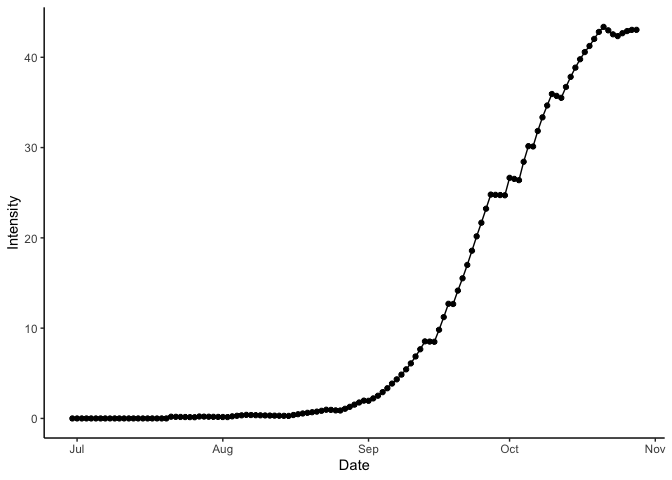
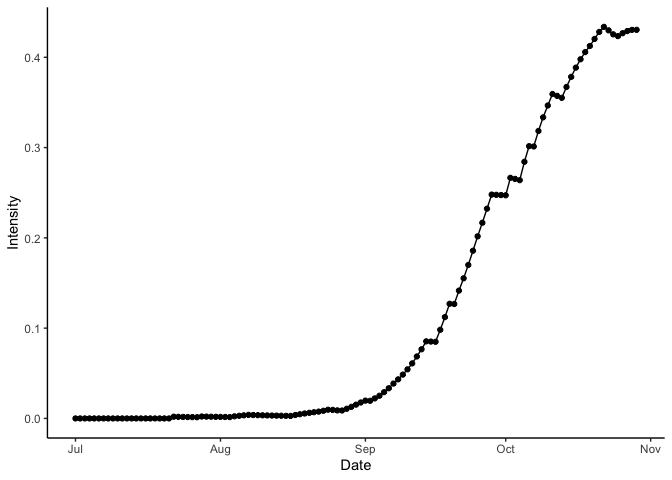
Update README

diff --git a/README.md b/README.md
@@ -92,41 +92,29 @@ bb <- predict_bacterial_blight(wth, emergence = "2000-07-01")
 
 bb
 #>      simday      dates     sites   latent infectious  removed    senesced
-#>   1:      0 2000-06-30  100.0000  0.00000     0.0000   0.0000    0.000000
-#>   2:      1 2000-07-01  108.6875  0.00000     0.0000   0.0000    1.000000
-#>   3:      2 2000-07-02  118.1002  0.00000     0.0000   0.0000    2.086875
-#>   4:      3 2000-07-03  128.2934  0.00000     0.0000   0.0000    3.267877
-#>   5:      4 2000-07-04  139.3254  0.00000     0.0000   0.0000    4.550811
+#>   1:      0 2000-07-01  100.0000  0.00000     0.0000   0.0000    0.000000
+#>   2:      1 2000-07-02  108.6875  0.00000     0.0000   0.0000    1.000000
+#>   3:      2 2000-07-03  118.1002  0.00000     0.0000   0.0000    2.086875
+#>   4:      3 2000-07-04  128.2934  0.00000     0.0000   0.0000    3.267877
+#>   5:      4 2000-07-05  139.3254  0.00000     0.0000   0.0000    4.550811
 #>  ---                                                                     
-#> 117:    116 2000-10-24 1308.1960 44.36766   916.5746 362.0380 2210.702871
-#> 118:    117 2000-10-25 1256.5107 39.98501   895.0610 405.9148 2267.661678
-#> 119:    118 2000-10-26 1211.3863 33.71538   876.5820 446.3983 2320.710228
-#> 120:    119 2000-10-27 1165.6534 47.64802   832.9739 490.0064 2376.432231
-#> 121:    120 2000-10-28 1120.0107 59.57869   786.7413 536.2390 2434.321334
-#>       rateinf rtransfer  rgrowth rsenesced diseased severity intensity      lat
-#>   1:  0.00000   0.00000  9.68750  1.000000    0.000  0.00000   0.00000 14.67741
-#>   2:  0.00000   0.00000 10.49959  1.086875    0.000  0.00000   0.00000 14.67741
-#>   3:  0.00000   0.00000 11.37416  1.181002    0.000  0.00000   0.00000 14.67741
-#>   4:  0.00000   0.00000 12.31499  1.282934    0.000  0.00000   0.00000 14.67741
-#>   5:  0.00000   0.00000 13.32593  1.393254    0.000  0.00000   0.00000 14.67741
+#> 117:    116 2000-10-25 1308.1960 44.36766   916.5746 362.0380 2210.702871
+#> 118:    117 2000-10-26 1256.5107 39.98501   895.0610 405.9148 2267.661678
+#> 119:    118 2000-10-27 1211.3863 33.71538   876.5820 446.3983 2320.710228
+#> 120:    119 2000-10-28 1165.6534 47.64802   832.9739 490.0064 2376.432231
+#> 121:    120 2000-10-29 1120.0107 59.57869   786.7413 536.2390 2434.321334
+#>       rateinf rtransfer  rgrowth rsenesced diseased intensity      lat      lon
+#>   1:  0.00000   0.00000  9.68750  1.000000    0.000 0.0000000 14.67741 121.2556
+#>   2:  0.00000   0.00000 10.49959  1.086875    0.000 0.0000000 14.67741 121.2556
+#>   3:  0.00000   0.00000 11.37416  1.181002    0.000 0.0000000 14.67741 121.2556
+#>   4:  0.00000   0.00000 12.31499  1.282934    0.000 0.0000000 14.67741 121.2556
+#>   5:  0.00000   0.00000 13.32593  1.393254    0.000 0.0000000 14.67741 121.2556
 #>  ---                                                                           
-#> 117: 17.98063  22.36328 23.25415 56.958808 1322.980 50.28094  42.34833 14.67741
-#> 118: 15.73475  22.00438 23.65885 53.048550 1340.961 51.62562  42.66584 14.67741
-#> 119: 13.93264   0.00000 23.92178 55.722003 1356.696 52.82914  42.90448 14.67741
-#> 120: 11.93067   0.00000 24.17705 57.889104 1370.628 54.04085  43.03536 14.67741
-#> 121:  9.75283   0.00000 24.41029 57.905971 1382.559 55.24557  43.04057 14.67741
-#>           lon
-#>   1: 121.2556
-#>   2: 121.2556
-#>   3: 121.2556
-#>   4: 121.2556
-#>   5: 121.2556
-#>  ---         
-#> 117: 121.2556
-#> 118: 121.2556
-#> 119: 121.2556
-#> 120: 121.2556
-#> 121: 121.2556
+#> 117: 17.98063  22.36328 23.25415 56.958808 1322.980 0.4234833 14.67741 121.2556
+#> 118: 15.73475  22.00438 23.65885 53.048550 1340.961 0.4266584 14.67741 121.2556
+#> 119: 13.93264   0.00000 23.92178 55.722003 1356.696 0.4290448 14.67741 121.2556
+#> 120: 11.93067   0.00000 24.17705 57.889104 1370.628 0.4303536 14.67741 121.2556
+#> 121:  9.75283   0.00000 24.41029 57.905971 1382.559 0.4304057 14.67741 121.2556
 ```
 
 Lastly, you can visualise the result of the model run.
